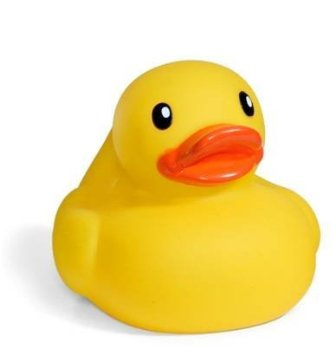
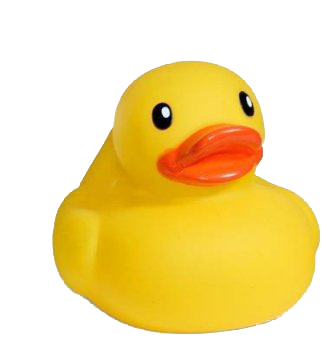
Things are different

diff --git a/templates/history.html b/templates/history.html
@@ -9,7 +9,7 @@
 <body>
     <div id="wrapper">
         <div id="banner">
-            <img id="logo" src="../static/duck.jpg"/>
+            <img id="logo" src="../static/duck.png"/>
             <font id="bannerFont" color="white">Rubber Ducky</a></font>
             <div id="menu">
                 <ul class="nav">
